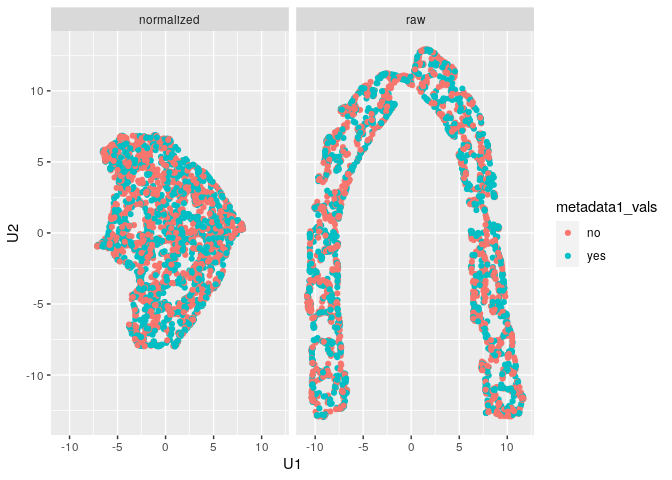
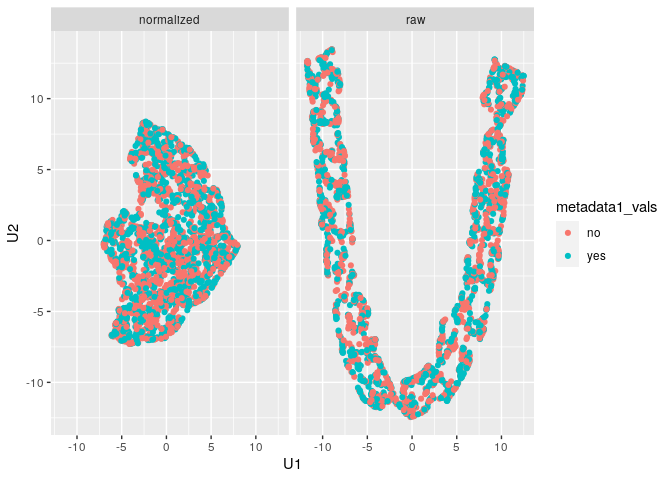
added plotting for var props

diff --git a/README.md b/README.md
@@ -54,7 +54,7 @@ mx_dataset = mx_dataset(data=mx_sample,
 The structure of the now built `mx_dataset` object:
 
 ``` r
-str(mx_dataset)
+str(mx_dataset,collapse=TRUE)
 #> List of 5
 #>  $ data         :'data.frame':   3000 obs. of  6 variables:
 #>   ..$ slide_id      : chr [1:3000] "slide1" "slide1" "slide1" "slide1" ...
@@ -204,19 +204,19 @@ form:
 ``` r
 head(mx_umap$umap_data)
 #>      marker1_vals marker2_vals marker3_vals metadata1_vals table         U1
-#> 1619           69          926         8461             no   raw  -7.645852
-#> 2055           77          156         8221             no   raw -10.670881
-#> 1459           23          710         8469            yes   raw  -8.377994
-#> 458            67          282          227            yes   raw   8.542427
-#> 790             7          422         5766            yes   raw  -4.654197
-#> 1372           68          873         5218            yes   raw  -1.804141
-#>              U2
-#> 1619  -5.495466
-#> 2055  -4.106900
-#> 1459  -5.375186
-#> 458  -12.362357
-#> 790    9.461787
-#> 1372   8.947082
+#> 1358           42          559         9040            yes   raw -10.209344
+#> 2218           12          312         8556             no   raw  -8.239037
+#> 2593           43          192          229             no   raw   9.351186
+#> 2227           85          996         6391             no   raw  -8.145189
+#> 1431           31          513         9655            yes   raw  -9.774081
+#> 2762           52          604         6462             no   raw  -6.970824
+#>             U2
+#> 1358  9.110037
+#> 2218  6.775599
+#> 2593 12.236804
+#> 2227 -6.668778
+#> 1431 12.042977
+#> 2762 -5.991169
 ```
 
 And the `mx_dataset` object now includes the following attributes:
@@ -253,14 +253,91 @@ str(mx_umap)
 #>   ..$ misclass_error  : num [1:24] 0.008 0.0133 0.0187 0.008 0.0187 ...
 #>  $ otsu_table   : chr "both"
 #>  $ umap_data    :'data.frame':   4800 obs. of  7 variables:
-#>   ..$ marker1_vals  : num [1:4800] 69 77 23 67 7 68 52 74 64 86 ...
-#>   ..$ marker2_vals  : num [1:4800] 926 156 710 282 422 873 839 617 23 203 ...
-#>   ..$ marker3_vals  : num [1:4800] 8461 8221 8469 227 5766 ...
-#>   ..$ metadata1_vals: chr [1:4800] "no" "no" "yes" "yes" ...
+#>   ..$ marker1_vals  : num [1:4800] 42 12 43 85 31 52 5 13 19 96 ...
+#>   ..$ marker2_vals  : num [1:4800] 559 312 192 996 513 604 205 826 621 327 ...
+#>   ..$ marker3_vals  : num [1:4800] 9040 8556 229 6391 9655 ...
+#>   ..$ metadata1_vals: chr [1:4800] "yes" "no" "no" "no" ...
 #>   ..$ table         : chr [1:4800] "raw" "raw" "raw" "raw" ...
-#>   ..$ U1            : num [1:4800] -7.65 -10.67 -8.38 8.54 -4.65 ...
-#>   ..$ U2            : num [1:4800] -5.5 -4.11 -5.38 -12.36 9.46 ...
+#>   ..$ U1            : num [1:4800] -10.21 -8.24 9.35 -8.15 -9.77 ...
+#>   ..$ U2            : num [1:4800] 9.11 6.78 12.24 -6.67 12.04 ...
 #>  $ umap_table   : chr "both"
+#>  - attr(*, "class")= chr "mx_dataset"
+```
+
+## Variance components analysis with `run_var_proportions()`
+
+We can also leverage `lmer()` from the `lme4` package to perform random
+effect modeling on the data to determine how much variance is present at
+the slide level, as follows:
+
+``` r
+mx_var = run_var_proportions(mx_umap,
+                             table="both",
+                             metadata_cols = "metadata1_vals")
+```
+
+This adds UMAP dimensions to our `mx_dataset` object in the following
+form:
+
+``` r
+head(mx_var$var_data)
+#>     proportions    level       marker table
+#> 1: 0.0000000000    slide marker1_vals   raw
+#> 2: 1.0000000000 residual marker1_vals   raw
+#> 3: 0.0000000000    slide marker2_vals   raw
+#> 4: 1.0000000000 residual marker2_vals   raw
+#> 5: 0.0004371019    slide marker3_vals   raw
+#> 6: 0.9995628981 residual marker3_vals   raw
+```
+
+And the `mx_dataset` object now includes the following attributes:
+
+``` r
+str(mx_var)
+#> List of 13
+#>  $ data         :'data.frame':   3000 obs. of  6 variables:
+#>   ..$ slide_id      : chr [1:3000] "slide1" "slide1" "slide1" "slide1" ...
+#>   ..$ image_id      : chr [1:3000] "image1" "image1" "image1" "image1" ...
+#>   ..$ marker1_vals  : num [1:3000] 91 94 29 83 64 52 74 13 66 71 ...
+#>   ..$ marker2_vals  : num [1:3000] 274 944 446 542 162 693 797 774 213 204 ...
+#>   ..$ marker3_vals  : num [1:3000] 2465 5303 2140 258 3420 ...
+#>   ..$ metadata1_vals: chr [1:3000] "yes" "yes" "yes" "yes" ...
+#>  $ slide_id     : chr "slide_id"
+#>  $ image_id     : chr "image_id"
+#>  $ marker_cols  : chr [1:3] "marker1_vals" "marker2_vals" "marker3_vals"
+#>  $ metadata_cols: chr "metadata1_vals"
+#>  $ norm_data    :'data.frame':   3000 obs. of  6 variables:
+#>   ..$ slide_id      : chr [1:3000] "slide1" "slide1" "slide1" "slide1" ...
+#>   ..$ image_id      : chr [1:3000] "image1" "image1" "image1" "image1" ...
+#>   ..$ marker1_vals  : num [1:3000] 1.96 1.98 1.48 1.92 1.81 ...
+#>   ..$ marker2_vals  : num [1:3000] 2.44 2.98 2.65 2.73 2.21 ...
+#>   ..$ marker3_vals  : num [1:3000] 3.39 3.72 3.33 2.41 3.53 ...
+#>   ..$ metadata1_vals: chr [1:3000] "yes" "yes" "yes" "yes" ...
+#>  $ scale        : chr "log10"
+#>  $ method       : chr "None"
+#>  $ otsu_data    :'data.frame':   24 obs. of  6 variables:
+#>   ..$ slide_id        : chr [1:24] "slide1" "slide2" "slide3" "slide4" ...
+#>   ..$ marker          : chr [1:24] "marker1_vals" "marker1_vals" "marker1_vals" "marker1_vals" ...
+#>   ..$ table           : chr [1:24] "raw" "raw" "raw" "raw" ...
+#>   ..$ slide_threshold : num [1:24] 50.2 47.9 47.9 51 515.6 ...
+#>   ..$ marker_threshold: num [1:24] 49 49 49 49 498 ...
+#>   ..$ misclass_error  : num [1:24] 0.008 0.0133 0.0187 0.008 0.0187 ...
+#>  $ otsu_table   : chr "both"
+#>  $ umap_data    :'data.frame':   4800 obs. of  7 variables:
+#>   ..$ marker1_vals  : num [1:4800] 42 12 43 85 31 52 5 13 19 96 ...
+#>   ..$ marker2_vals  : num [1:4800] 559 312 192 996 513 604 205 826 621 327 ...
+#>   ..$ marker3_vals  : num [1:4800] 9040 8556 229 6391 9655 ...
+#>   ..$ metadata1_vals: chr [1:4800] "yes" "no" "no" "no" ...
+#>   ..$ table         : chr [1:4800] "raw" "raw" "raw" "raw" ...
+#>   ..$ U1            : num [1:4800] -10.21 -8.24 9.35 -8.15 -9.77 ...
+#>   ..$ U2            : num [1:4800] 9.11 6.78 12.24 -6.67 12.04 ...
+#>  $ umap_table   : chr "both"
+#>  $ var_data     :Classes 'data.table' and 'data.frame':  12 obs. of  4 variables:
+#>   ..$ proportions: num [1:12] 0 1 0 1 0.000437 ...
+#>   ..$ level      : chr [1:12] "slide" "residual" "slide" "residual" ...
+#>   ..$ marker     : chr [1:12] "marker1_vals" "marker1_vals" "marker2_vals" "marker2_vals" ...
+#>   ..$ table      : chr [1:12] "raw" "raw" "raw" "raw" ...
+#>   ..- attr(*, ".internal.selfref")=<externalptr> 
 #>  - attr(*, "class")= chr "mx_dataset"
 ```
 
@@ -284,7 +361,7 @@ stratified by slide and marker:
 plot_mx_misclass(mx_otsu)
 ```
 
-<img src="man/figures/README-mx_var-1.png" width="100%" />
+<img src="man/figures/README-mx_misc-1.png" width="100%" />
 
 We can further visualize the results of the UMAP dimension reduction as
 follows:
@@ -294,3 +371,13 @@ plot_mx_umap(mx_umap,metadata_col = "metadata1_vals")
 ```
 
 <img src="man/figures/README-mx_umap-1.png" width="100%" />
+
+And we can also visualize the results of the variance proportions (note
+that this is sample data, hence the proportions of variance at the slide
+level are \(\approx 0\)):
+
+``` r
+plot_mx_proportions(mx_var)
+```
+
+<img src="man/figures/README-mx_var-1.png" width="100%" />
